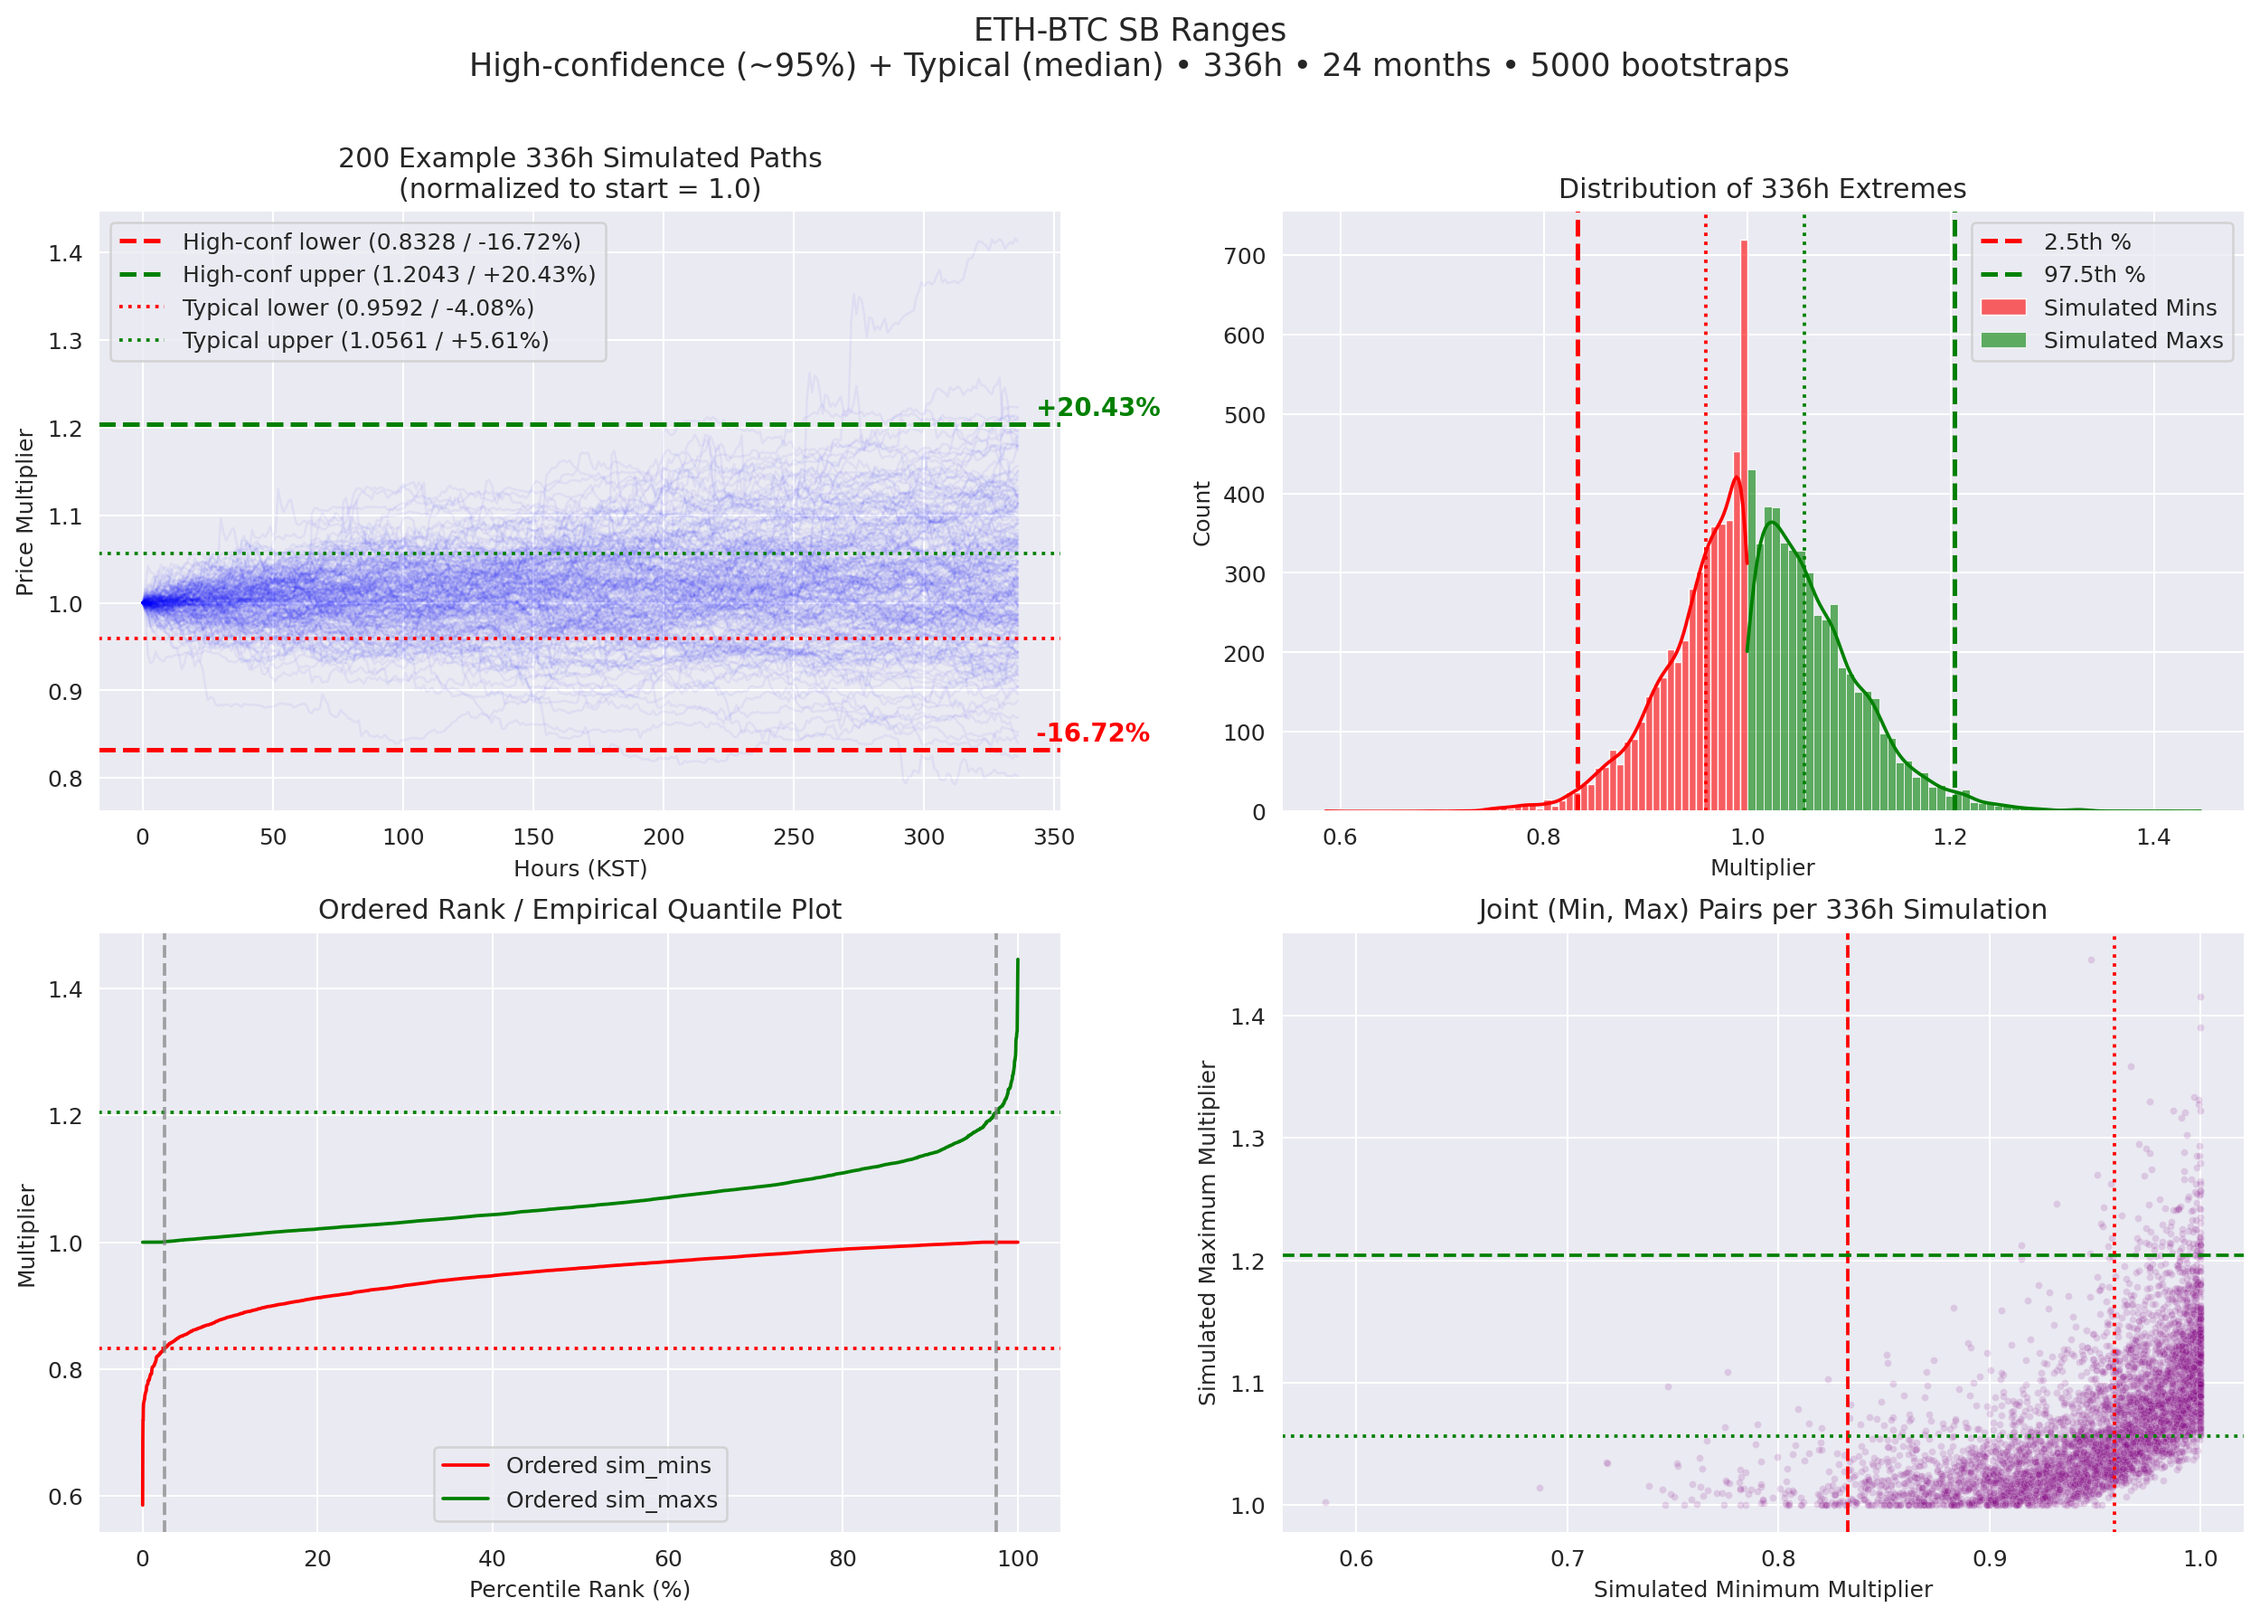
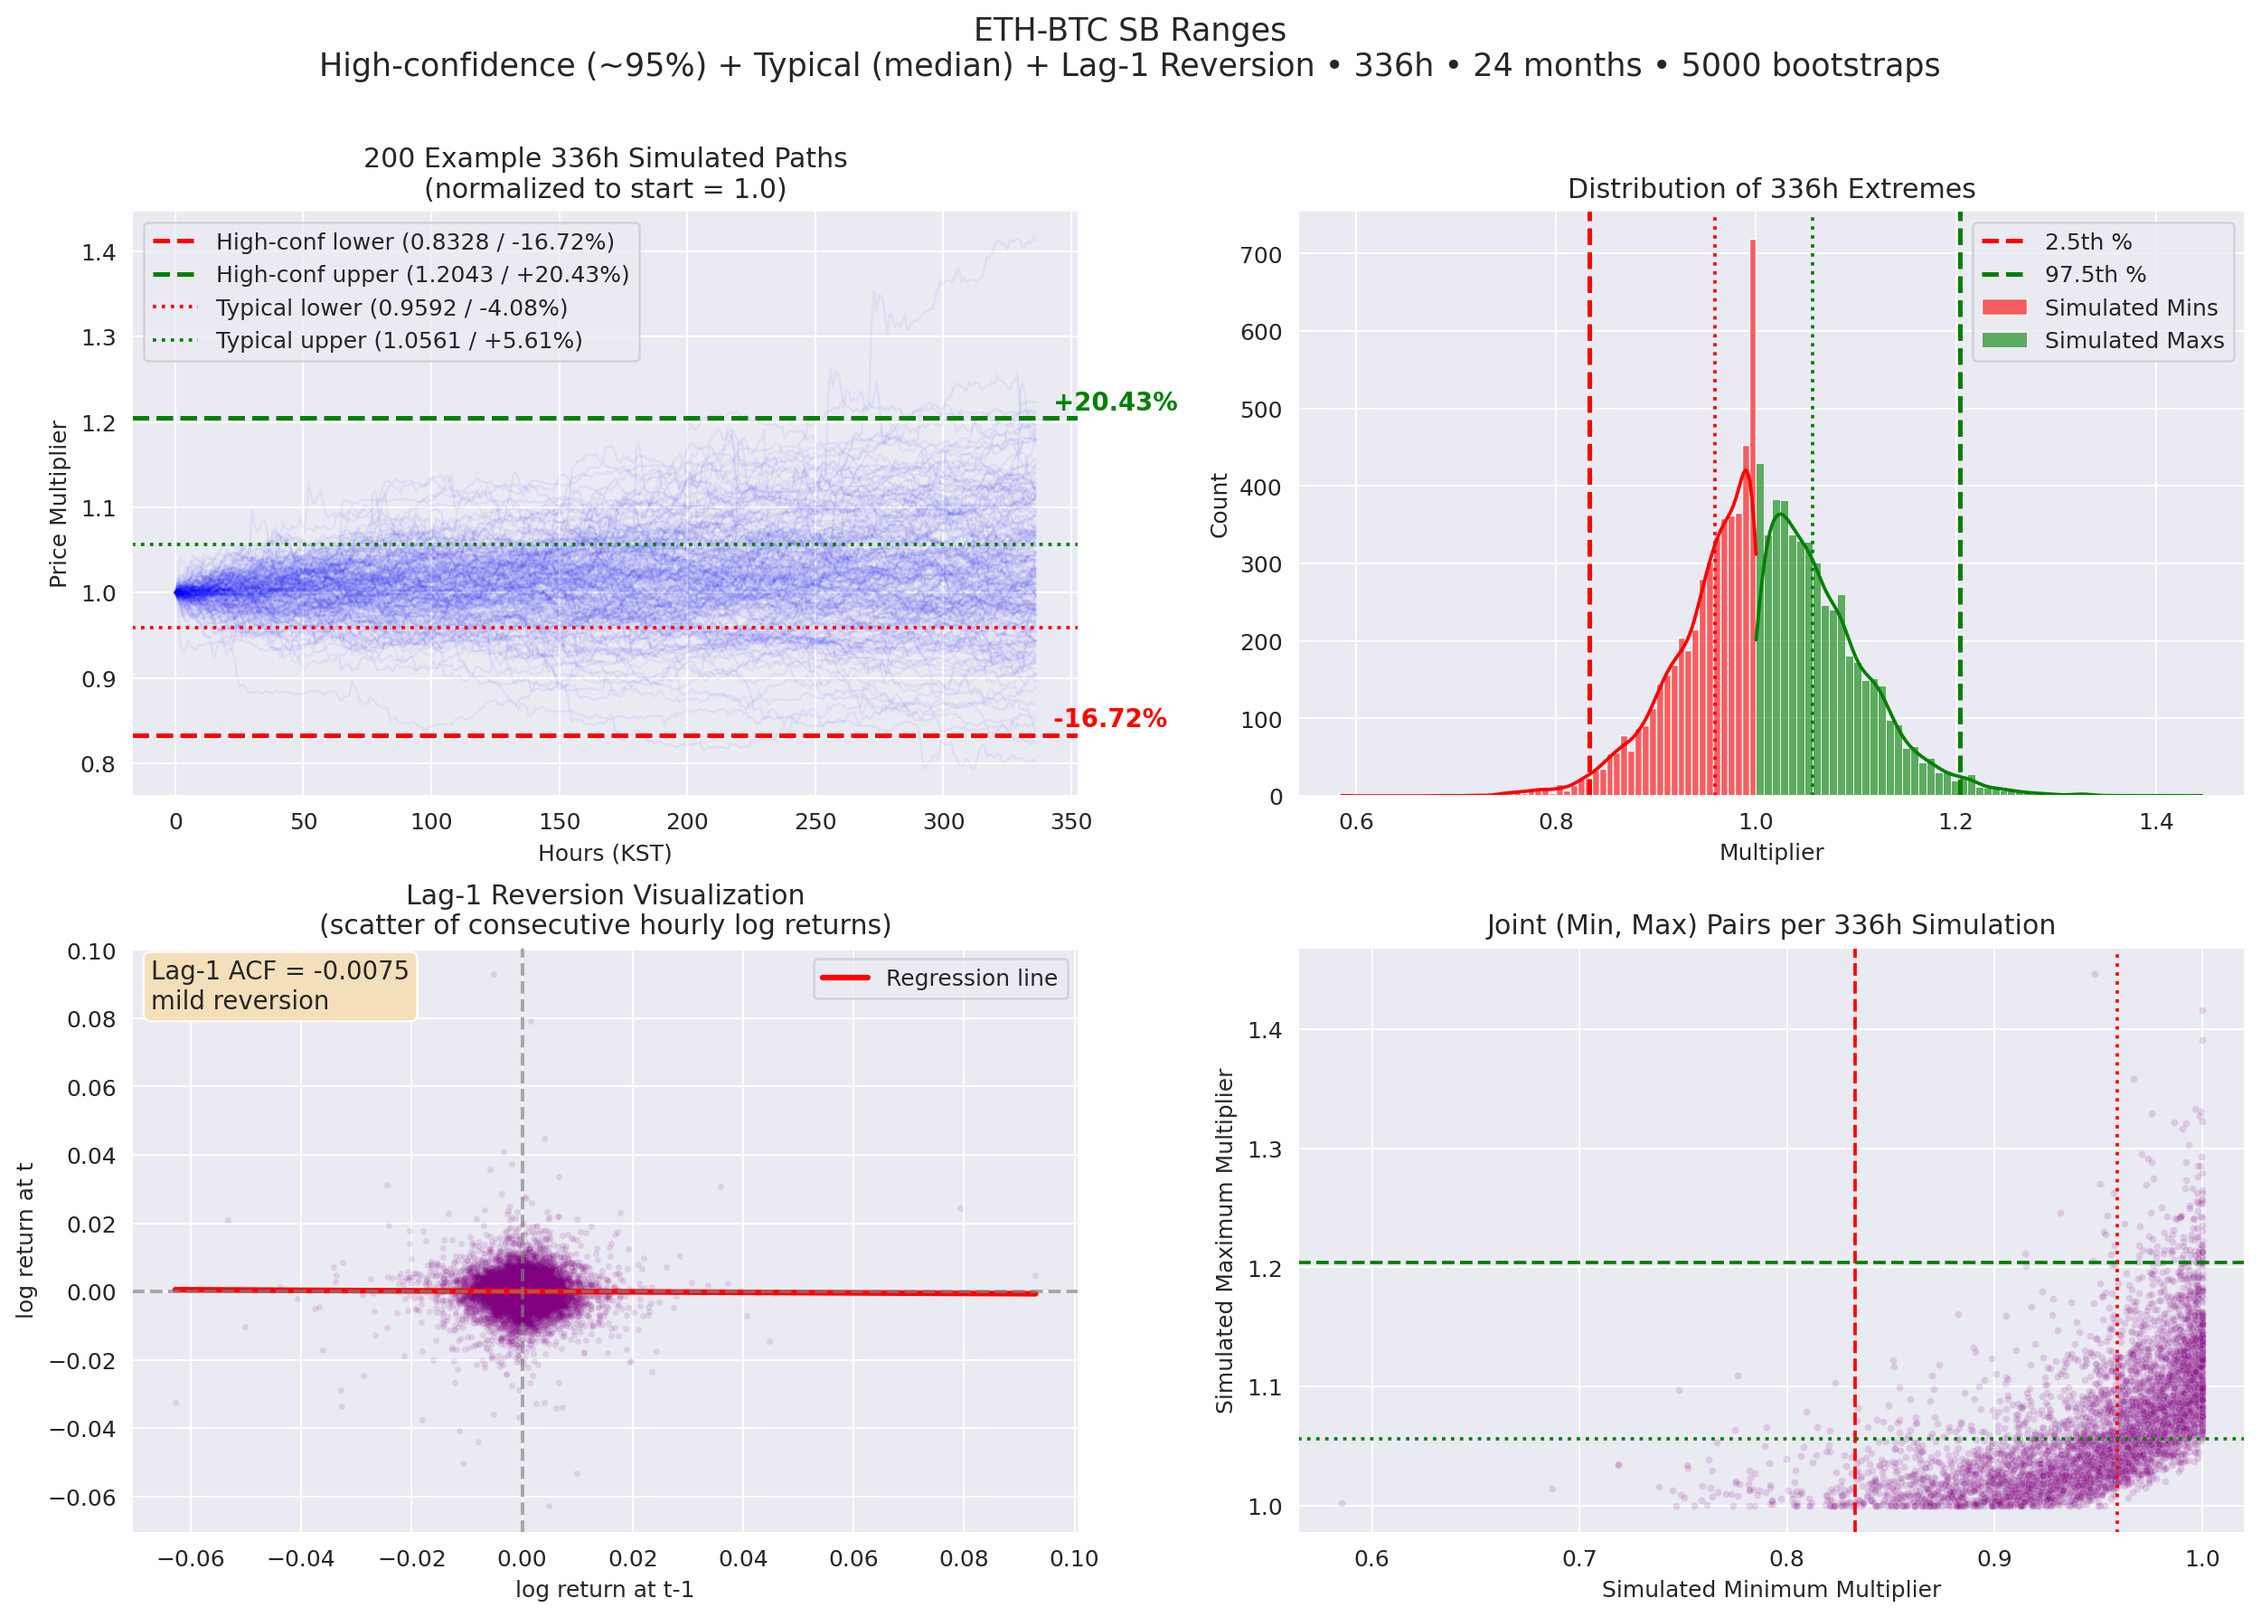
chart fixed

diff --git a/src/gecko_price_analysis/sb_tokens.py b/src/gecko_price_analysis/sb_tokens.py
@@ -85,7 +85,6 @@ def main():
         horizon_label = "168h (7 days)"
     elif horizon == 720:
         horizon_label = "720h (30 days)"
-    # 336h (2 weeks) will simply show as "336h" — perfectly fine
 
     print(f"Running SB for pair {CONFIG['token0'].upper()}-{CONFIG['token1'].upper()} "
           f"({CONFIG['n_months']} months, {horizon_label}, {CONFIG['n_boots']} bootstraps)")
@@ -150,7 +149,7 @@ def main():
     print(f"OPTIMAL LIQUIDITY POOL RANGE for {CONFIG['token0'].upper()} per {CONFIG['token1'].upper()}")
     print("="*80)
 
-    # Autocorrelation diagnostic
+    # Autocorrelation diagnostic (emojis stay here only)
     print(f"Lag-1 autocorrelation of log returns : {lag1_acf:.4f} ", end="")
     if lag1_acf < CONFIG['acf_strong_reversion_threshold']:
         print("(🔄 strong reversion tendency)")
@@ -241,7 +240,8 @@ def main():
         ax2.set_xlabel('Multiplier')
         ax2.legend()
 
-        # ← NEW: Lag-1 Reversion Visualization (replaces old ordered-rank plot)
+        # ← UPDATED: Lag-1 Reversion Visualization
+        # Orange ACF box on LEFT, regression line legend on RIGHT
         ax3 = plt.subplot(2, 2, 3)
         n_obs = len(log_returns)
         if n_obs > 1:
@@ -253,26 +253,26 @@ def main():
                 x_range = np.linspace(x.min(), x.max(), 100)
                 y_fit = slope * x_range + intercept
                 ax3.plot(x_range, y_fit, color='red', lw=2.5,
-                         label=f'Regression line (slope = {lag1_acf:.4f})')
+                         label='Regression line')
             ax3.axhline(0, color='gray', linestyle='--', alpha=0.7)
             ax3.axvline(0, color='gray', linestyle='--', alpha=0.7)
             ax3.set_xlabel('log return at t-1')
             ax3.set_ylabel('log return at t')
             ax3.set_title('Lag-1 Reversion Visualization\n(scatter of consecutive hourly log returns)')
-            ax3.legend(loc='upper left')
+            ax3.legend(loc='upper right')   # Regression line label stays on the right
 
-            # Classification annotation box
+            # Orange ACF box on LEFT (top-left)
             if lag1_acf < CONFIG['acf_strong_reversion_threshold']:
-                class_txt = "🔄 STRONG REVERSION"
+                class_txt = "STRONG REVERSION"
             elif lag1_acf < 0:
-                class_txt = "🔄 mild reversion"
+                class_txt = "mild reversion"
             elif lag1_acf > CONFIG['acf_momentum_threshold']:
-                class_txt = "📈 MOMENTUM"
+                class_txt = "MOMENTUM"
             else:
-                class_txt = "➡ near random-walk"
+                class_txt = "near random-walk"
             ax3.text(0.02, 0.98, f'Lag-1 ACF = {lag1_acf:.4f}\n{class_txt}',
                      transform=ax3.transAxes, fontsize=11,
-                     verticalalignment='top',
+                     verticalalignment='top', horizontalalignment='left',
                      bbox=dict(boxstyle="round", facecolor="wheat", alpha=0.9))
         else:
             ax3.text(0.5, 0.5, 'Insufficient data for Lag-1 chart', ha='center', va='center')
